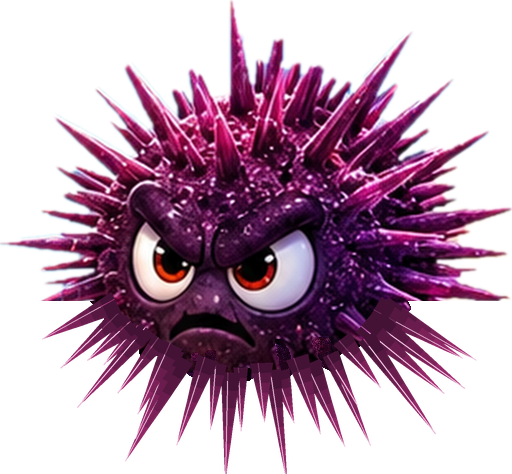
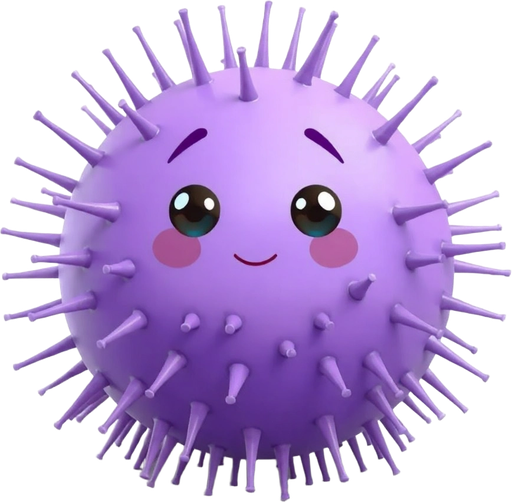
Kind faces for the starfish and the urchin (a child swam around the urchin: it looked mean); glossy life hearts
Starfish and urchin repainted with big round eyes, raised brows and a small smile. Hearts
(img/ui/heart_full, heart_half, heart_empty, 128 px) are procedural (scripts/fx/hearts.py): a
dome-shaded coral heart with a highlight and no outline, the empty one dark glass.

diff --git a/scripts/fx/hearts.py b/scripts/fx/hearts.py
@@ -1,0 +1,67 @@
+# The HUD's life hearts in the lookdev style (img/ui/heart_full, heart_half, heart_empty): a
+# glossy, rounded heart with soft 3D shading and a highlight, warm red-coral, no outline; the
+# empty one a dark translucent glass heart; the half one full on the left, glass on the right.
+# Procedural (a signed distance field shaded as a dome), so the three always match.
+# usage: python -I scripts/fx/hearts.py <repo root>
+import sys, os
+import numpy as np
+from PIL import Image
+
+ROOT = sys.argv[1]
+OUT = os.path.join(ROOT, 'public', 'img', 'ui')
+N, SS = 128, 4                        # output px, supersampling
+CORAL = np.array([[255, 122, 104], [240, 70, 72], [176, 30, 52]], np.float32) / 255   # light, mid, deep
+GLASS = np.array([30, 44, 70], np.float32) / 255
+
+def heart_field(n):
+    """Signed distance (in units of the picture's half width, negative inside) of a plump heart:
+    the classic implicit heart (x^2 + y^2 - 1)^3 - x^2 y^3 <= 0, measured with a distance transform."""
+    from scipy import ndimage as nd
+    s = np.linspace(-1.42, 1.42, n)
+    x, y = np.meshgrid(s, -s)
+    y = y * 1.08 + 0.1
+    inside = (x * x + y * y - 1) ** 3 - x * x * y ** 3 <= 0
+    px = 2.84 / n
+    return (nd.distance_transform_edt(~inside) - nd.distance_transform_edt(inside)) * px
+
+def shade(d, glass=False):
+    inside = np.clip(-d / 0.035, 0, 1)                         # soft anti-aliased edge
+    depth = np.clip(-d / 0.6, 0, 1)
+    height = np.sqrt(1 - (1 - depth) ** 2)                     # a dome: steep at the rim, flat in the middle
+    from scipy import ndimage as nd
+    height = nd.gaussian_filter(height, d.shape[0] / 60)       # no crease along the distance field's ridge
+    gy, gx = np.gradient(height)
+    k = d.shape[0] / 8.0
+    nx, ny = -gx * k, gy * k                                   # y up in the field
+    nz = np.ones_like(nx)
+    l = np.sqrt(nx * nx + ny * ny + nz * nz); nx, ny, nz = nx / l, ny / l, nz / l
+    L = np.array([-0.45, 0.6, 0.66]); L /= np.linalg.norm(L)
+    lam = np.clip(nx * L[0] + ny * L[1] + nz * L[2], 0, 1)
+    hv = np.array([L[0], L[1], L[2] + 1]); hv /= np.linalg.norm(hv)
+    spec = np.clip(nx * hv[0] + ny * hv[1] + nz * hv[2], 0, 1) ** 40
+    if glass:
+        rgb = GLASS[None, None, :] * (0.7 + 0.5 * lam[..., None])
+        rim = np.clip(1 - depth * 4, 0, 1) ** 2                 # glass shows its edge as a faint light rim
+        rgb = rgb + 0.35 * rim[..., None] + 0.9 * spec[..., None]
+        alpha = inside * np.clip(0.42 + 0.35 * rim + 0.6 * spec, 0, 1)
+    else:
+        t = lam[..., None]
+        rgb = CORAL[2] * (1 - t) ** 2 + CORAL[1] * 2 * t * (1 - t) + CORAL[0] * t ** 2
+        rgb = rgb * (0.82 + 0.18 * height[..., None]) + 0.95 * spec[..., None]
+        bounce = np.clip((-ny) * (1 - depth), 0, 1) ** 2        # warm light from below on the lower rim
+        rgb = rgb + np.array([0.25, 0.08, 0.05]) * bounce[..., None]
+        alpha = inside
+    return np.clip(rgb, 0, 1), alpha
+
+d = heart_field(N * SS)
+full_rgb, full_a = shade(d)
+glass_rgb, glass_a = shade(d, glass=True)
+half = np.linspace(0, 1, N * SS)[None, :] < 0.5
+half_rgb = np.where(half[..., None], full_rgb, glass_rgb)
+half_a = np.where(half, full_a, glass_a)
+
+os.makedirs(OUT, exist_ok=True)
+for name, rgb, a in [('heart_full', full_rgb, full_a), ('heart_half', half_rgb, half_a), ('heart_empty', glass_rgb, glass_a)]:
+    img = Image.fromarray((np.dstack([rgb, a]) * 255 + 0.5).astype(np.uint8), 'RGBA').resize((N, N), Image.LANCZOS)
+    img.save(os.path.join(OUT, name + '.png'), optimize=True)
+    print(name, img.size)
